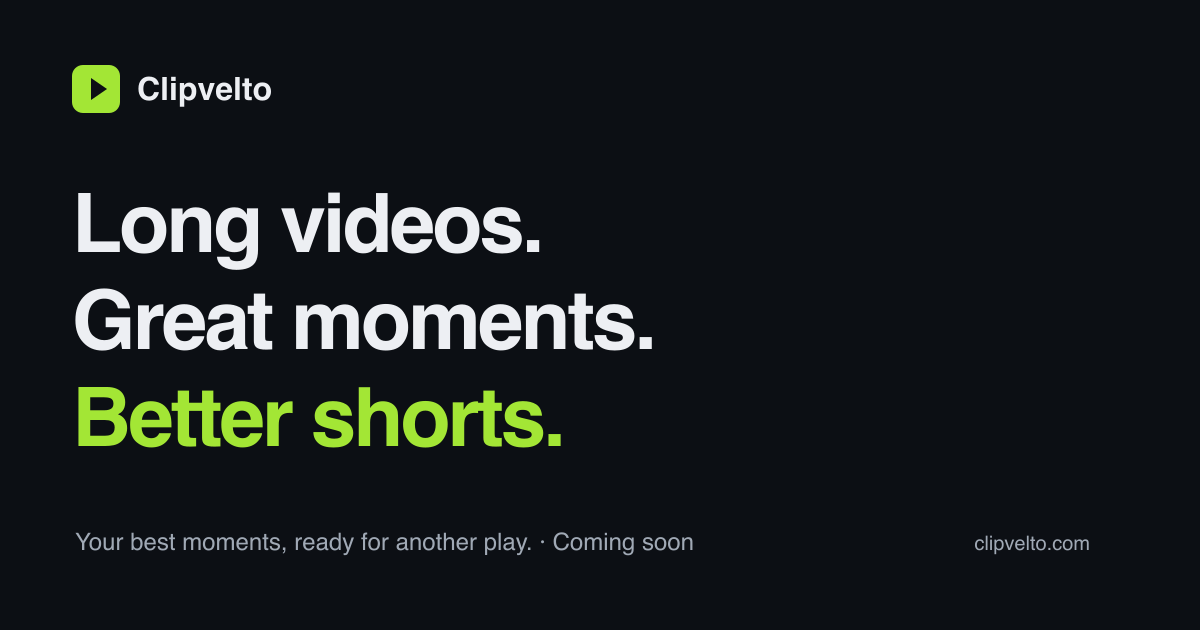
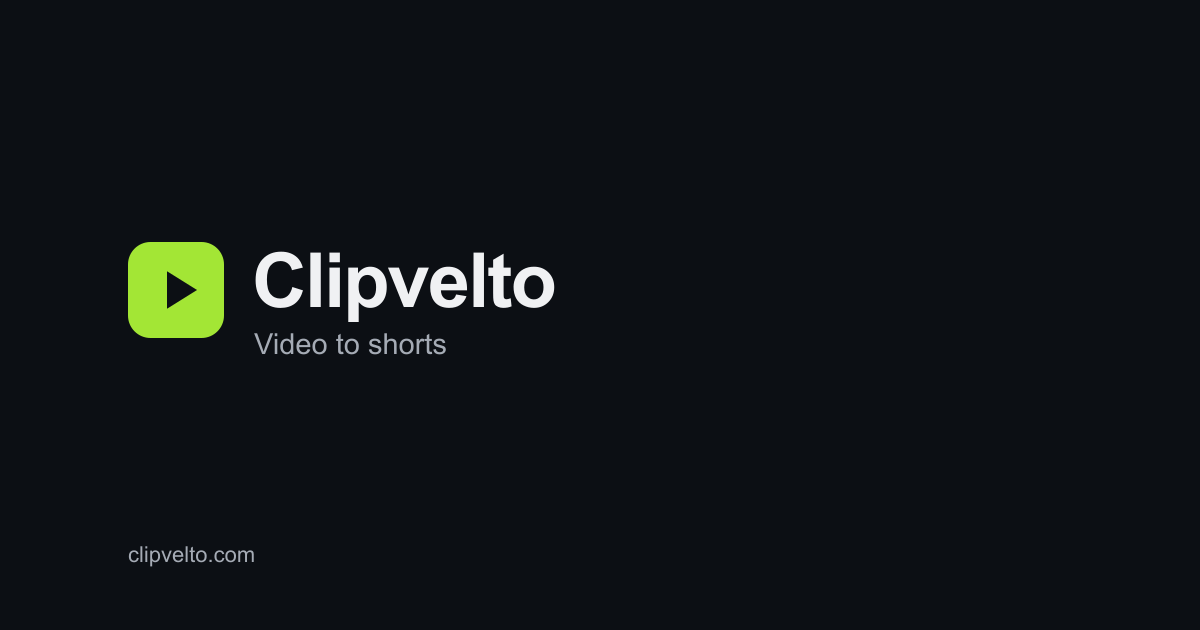
Simplify social sharing assets and unify brand metadata

diff --git a/front-end/src/lib/seo.ts b/front-end/src/lib/seo.ts
@@ -9,26 +9,26 @@ export const site = {
 
 export const absoluteUrl = (path = "/") => new URL(path, site.url).toString();
 
+export const sharingImage = {
+  url: absoluteUrl("/opengraph-image.png?v=2"),
+  width: 1200,
+  height: 630,
+  type: "image/png",
+  alt: "Clipvelto — Video to shorts",
+};
+
 export function publicMetadata({
   title,
   description,
   path,
-  image = "/opengraph-image.png",
   article,
 }: {
   title: string;
   description: string;
   path: string;
-  image?: string;
   article?: { published: string; modified: string; section: string };
 }): Metadata {
   const fullTitle = `${title} | ${site.name}`;
-  const socialImage = {
-    url: absoluteUrl(image),
-    width: 1200,
-    height: 630,
-    alt: title,
-  };
   return {
     title: { absolute: fullTitle },
     description,
@@ -40,7 +40,7 @@ export function publicMetadata({
       url: absoluteUrl(path),
       siteName: site.name,
       locale: "en_US",
-      images: [socialImage],
+      images: [sharingImage],
       ...(article && {
         publishedTime: article.published,
         modifiedTime: article.modified,
@@ -52,7 +52,7 @@ export function publicMetadata({
       card: "summary_large_image",
       title: fullTitle,
       description,
-      images: [socialImage],
+      images: [sharingImage],
     },
   };
 }

diff --git a/front-end/src/app/layout.tsx b/front-end/src/app/layout.tsx
@@ -4,7 +4,7 @@ import "./globals.css";
 import "@/styles/billing.css";
 import "@/styles/public-pages.css";
 import "@/styles/editorial.css";
-import { absoluteUrl, site } from "@/lib/seo";
+import { absoluteUrl, sharingImage, site } from "@/lib/seo";
 
 const dmSans = DM_Sans({
   subsets: ["latin"],
@@ -46,27 +46,13 @@ export const metadata: Metadata = {
     siteName: "Clipvelto",
     locale: "en_US",
     type: "website",
-    images: [
-      {
-        url: "/og/home",
-        width: 1200,
-        height: 630,
-        alt: "Clipvelto — Long videos. Great moments. Better shorts.",
-      },
-    ],
+    images: [sharingImage],
   },
   twitter: {
     card: "summary_large_image",
     title,
     description,
-    images: ["/og/home"],
-  },
-  icons: {
-    icon: [
-      { url: "/icon.svg", type: "image/svg+xml" },
-      { url: "/favicon.ico", sizes: "32x32" },
-    ],
-    apple: [{ url: "/apple-icon.png", sizes: "180x180" }],
+    images: [sharingImage],
   },
 };
 
@@ -89,6 +75,12 @@ const structuredData = {
       "@id": absoluteUrl("/#organization"),
       name: site.name,
       url: site.url,
+      logo: {
+        "@type": "ImageObject",
+        url: absoluteUrl("/logo.svg"),
+        width: 64,
+        height: 64,
+      },
     },
     {
       "@type": "WebSite",

diff --git a/front-end/src/app/og/[slug]/route.ts b/front-end/src/app/og/[slug]/route.ts
@@ -1,0 +1,27 @@
+import { notFound } from "next/navigation";
+import { articles } from "@/content/articles";
+import { workflows } from "@/content/workflows";
+import { topics } from "@/content/topics";
+import { sharingImage } from "@/lib/seo";
+
+// Keep previously shared image URLs working without rendering extra cards.
+const slugs = new Set([
+  "home", "creator-guides", "contact", "privacy", "terms",
+  ...topics.map((topic) => `topic-${topic.slug}`),
+  ...articles.map((post) => post.slug),
+  ...workflows.map((workflow) => workflow.slug),
+]);
+
+export const dynamic = "force-static";
+export const dynamicParams = false;
+export function generateStaticParams() {
+  return [...slugs].map((slug) => ({ slug }));
+}
+
+export async function GET(
+  _request: Request,
+  { params }: { params: Promise<{ slug: string }> },
+) {
+  if (!slugs.has((await params).slug)) notFound();
+  return Response.redirect(sharingImage.url, 308);
+}

diff --git a/front-end/src/app/blog/[slug]/page.tsx b/front-end/src/app/blog/[slug]/page.tsx
@@ -29,7 +29,6 @@ export async function generateMetadata({ params }: Props): Promise<Metadata> {
     title: post.title,
     description: post.description,
     path: `/blog/${post.slug}`,
-    image: `/og/${post.slug}`,
     article: {
       published: post.published,
       modified: post.modified,
@@ -71,7 +70,6 @@ export default async function ArticlePage({ params }: Props) {
               ...post.sections.flatMap((section) =>
                 section.image ? [absoluteUrl(section.image.src)] : [],
               ),
-              absoluteUrl(`/og/${post.slug}`),
             ]),
           ],
           datePublished: post.published,

diff --git a/front-end/src/app/blog/topics/[topic]/page.tsx b/front-end/src/app/blog/topics/[topic]/page.tsx
@@ -21,7 +21,6 @@ export async function generateMetadata({ params }: Props): Promise<Metadata> {
     title: `${current.title}: articles and guides`,
     description: current.description,
     path: `/blog/topics/${current.slug}`,
-    image: `/og/topic-${current.slug}`,
   });
 }
 export default async function TopicPage({ params }: Props) {

diff --git a/front-end/src/app/page.tsx b/front-end/src/app/page.tsx
@@ -14,7 +14,6 @@ export const metadata = publicMetadata({
   description:
     "Find highlights in your YouTube recordings and video uploads. Create vertical, square or horizontal MP4 clips with optional captions. Start with 15 free credits.",
   path: "/",
-  image: "/og/home",
 });
 
 export default async function HomePage() {

diff --git a/front-end/src/app/blog/page.tsx b/front-end/src/app/blog/page.tsx
@@ -13,7 +13,6 @@ export const metadata = publicMetadata({
   description:
     "Practical video editing and publishing guides, podcast and webinar clip ideas, and GTA 6 stories with real photographs and official sources.",
   path: "/blog",
-  image: "/og/creator-guides",
 });
 
 export default function BlogPage() {

diff --git a/front-end/src/app/privacy/page.tsx b/front-end/src/app/privacy/page.tsx
@@ -6,7 +6,6 @@ export const metadata = publicMetadata({
   description:
     "How Clipvelto collects, processes, stores and protects account information, videos and contact messages.",
   path: "/privacy",
-  image: "/og/privacy",
 });
 export default function PrivacyPage() {
   return (

diff --git a/front-end/src/app/contact/page.tsx b/front-end/src/app/contact/page.tsx
@@ -7,7 +7,6 @@ export const metadata = publicMetadata({
   description:
     "Contact the Clipvelto administrator about your account, videos, credits or a privacy request.",
   path: "/contact",
-  image: "/og/contact",
 });
 export default function ContactPage() {
   return (

diff --git a/front-end/src/app/terms/page.tsx b/front-end/src/app/terms/page.tsx
@@ -6,7 +6,6 @@ export const metadata = publicMetadata({
   description:
     "Terms for using Clipvelto, processing recordings, using credits and accessing generated clips.",
   path: "/terms",
-  image: "/og/terms",
 });
 export default function TermsPage() {
   return (

diff --git a/front-end/src/app/podcast-clip-maker/page.tsx b/front-end/src/app/podcast-clip-maker/page.tsx
@@ -7,7 +7,6 @@ export const metadata = publicMetadata({
   title: workflow.title,
   description: workflow.description,
   path: `/${workflow.slug}`,
-  image: `/og/${workflow.slug}`,
 });
 export default function Page() {
   return <WorkflowPage workflow={workflow} />;

diff --git a/front-end/src/app/youtube-to-shorts/page.tsx b/front-end/src/app/youtube-to-shorts/page.tsx
@@ -7,7 +7,6 @@ export const metadata = publicMetadata({
   title: workflow.title,
   description: workflow.description,
   path: `/${workflow.slug}`,
-  image: `/og/${workflow.slug}`,
 });
 export default function Page() {
   return <WorkflowPage workflow={workflow} />;
